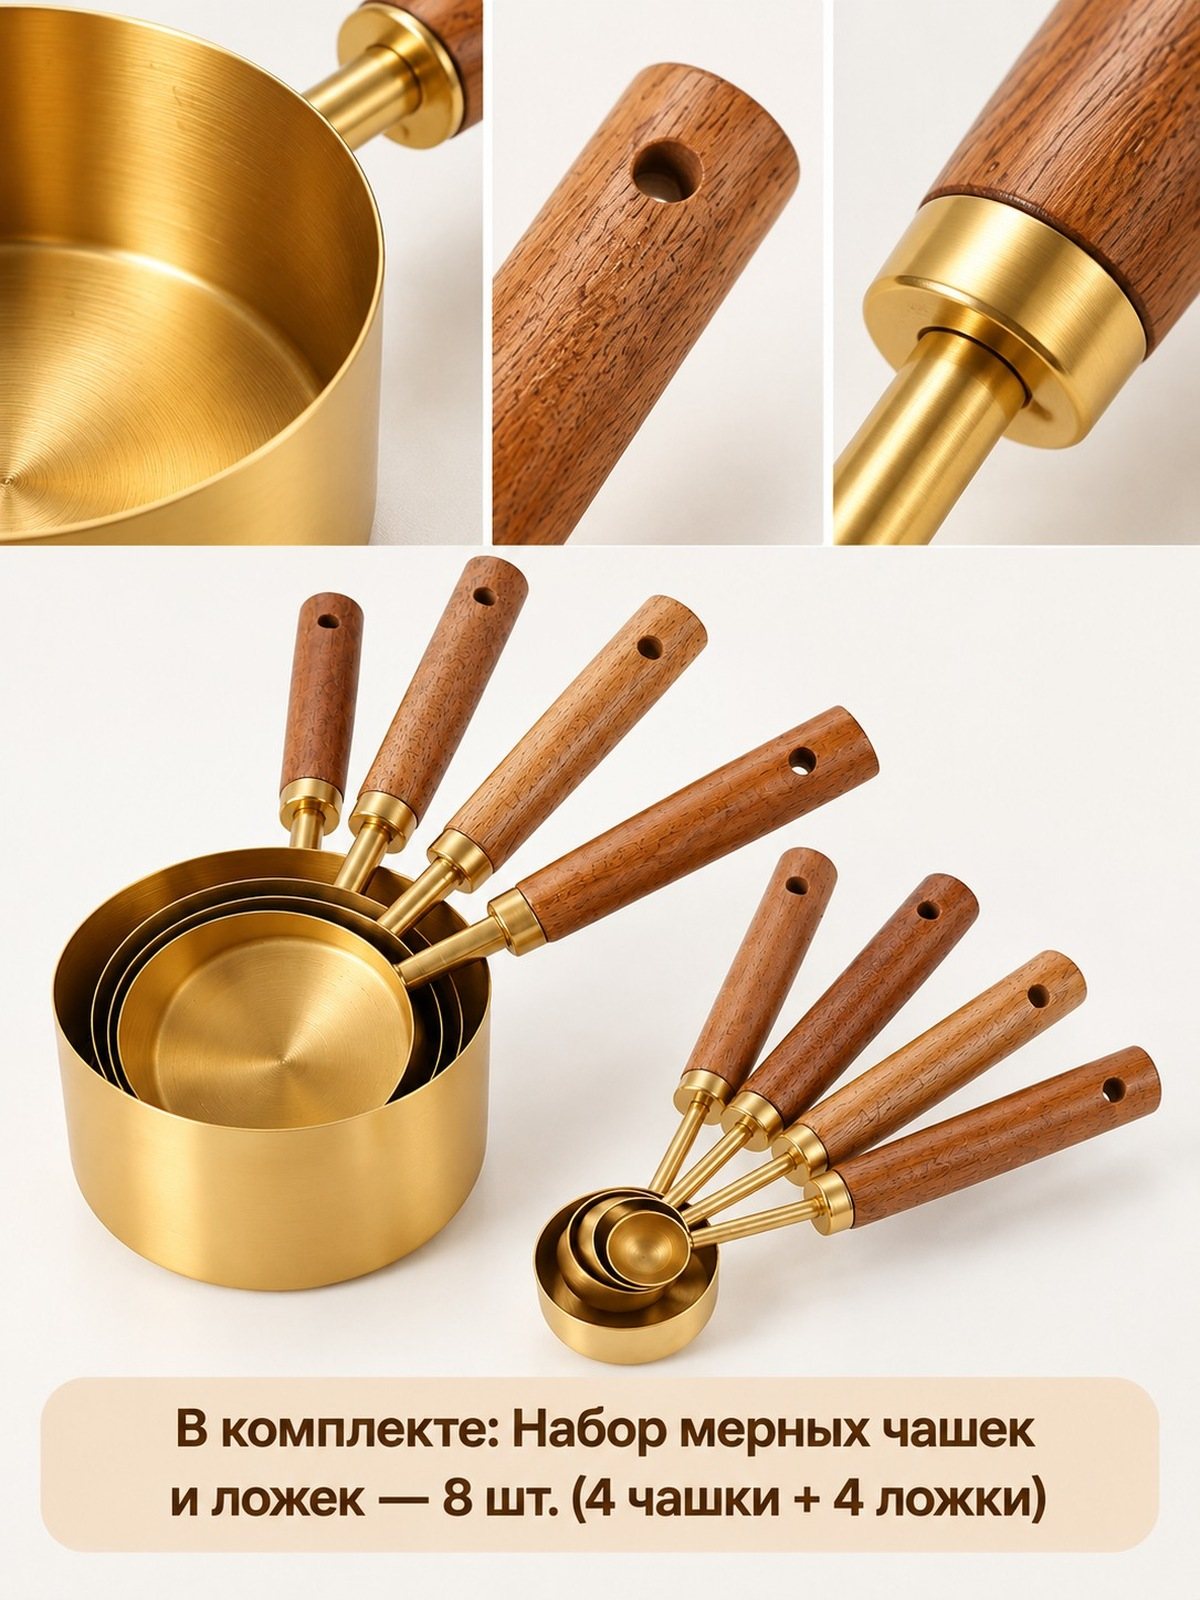
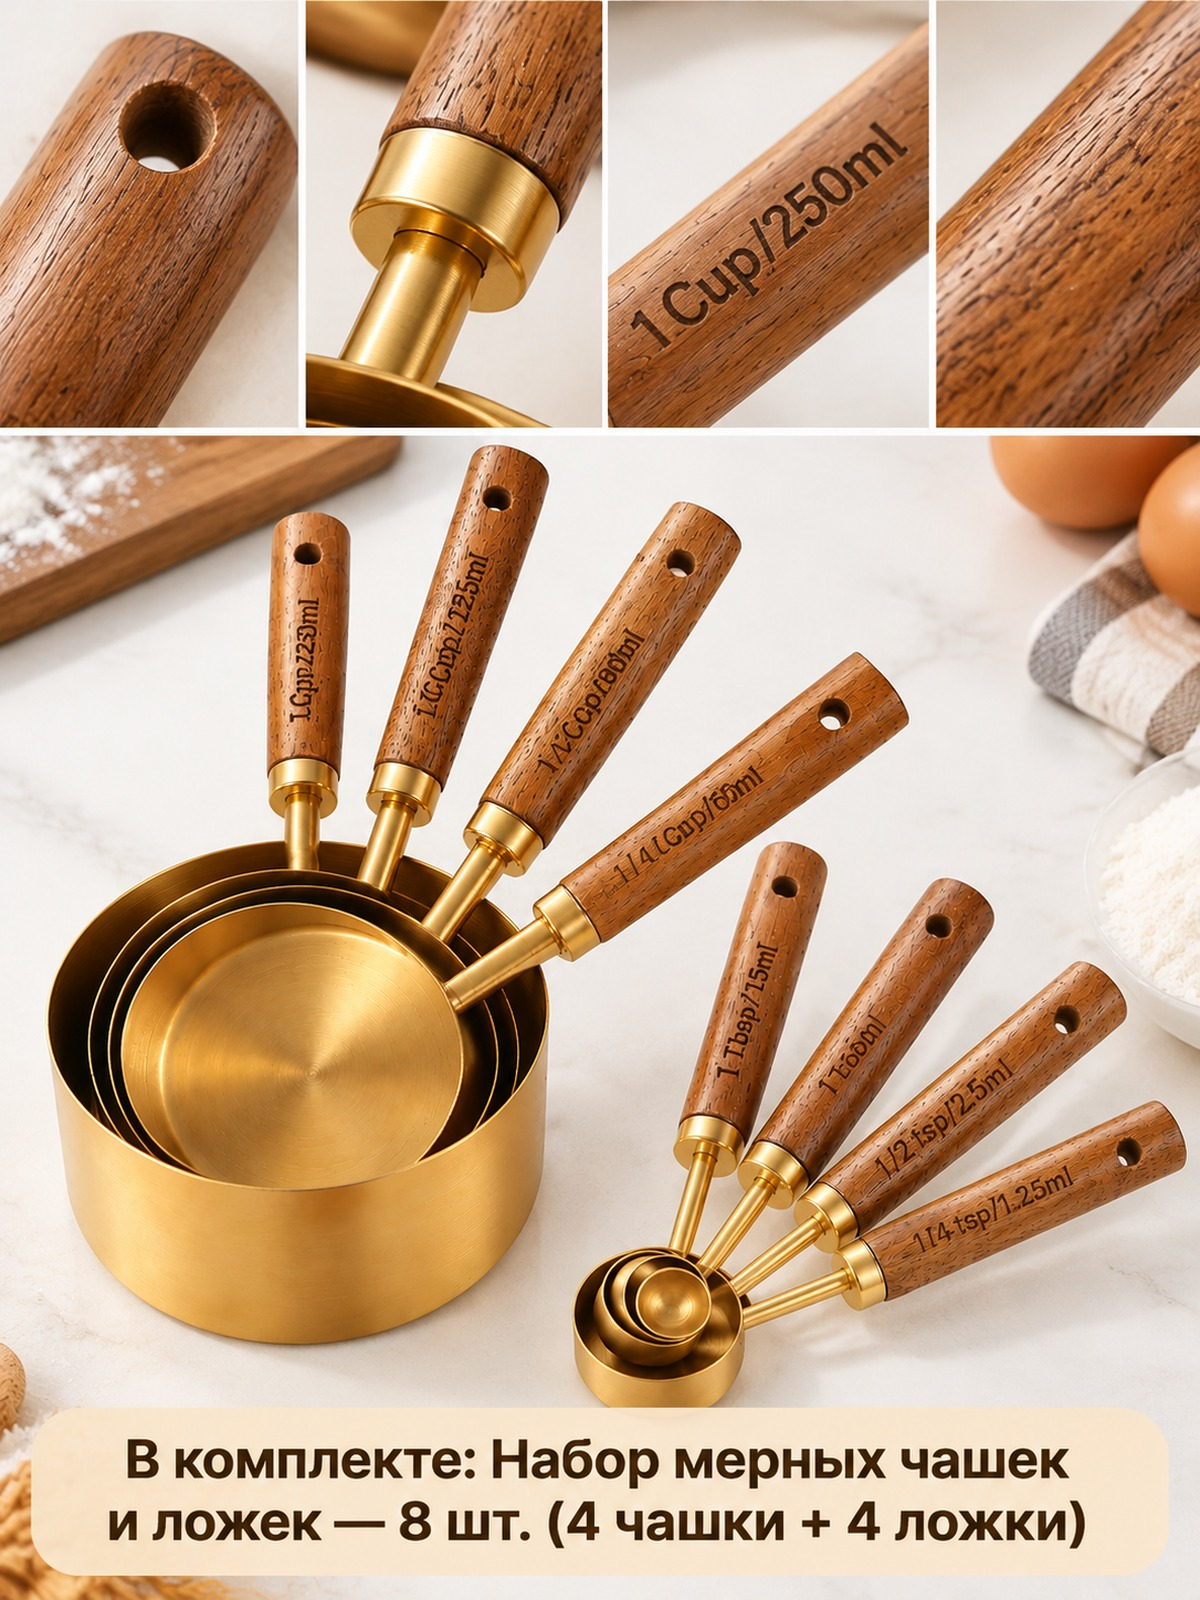
TG-R605 redo: laser capacity engravings on handles

diff --git a/TG-R605/MANIFEST.md b/TG-R605/MANIFEST.md
@@ -1,37 +1,27 @@
 # TG-R605 Ozon image pack — 木柄金色量勺量杯8件套
 
-更新：2026-10-31（Asia/Shanghai）· 六图已出  
+更新：2026-10-31（Asia/Shanghai）· 打回后重出（柄激光容量刻字）· 待终审  
 店：Тайген · 货号 TG-R605 · 选品 R6-05  
 状态：**待店群终审** · method=网页GPT
 
 ## 货源
 - 1688: https://detail.1688.com/offer/777159105592.html
-- 厂：阳江金海；锁定 **金色8件套** skuId 5484484639035；¥12 / MOQ≥2；件重尺 **435 g**
-- 外形：相思木圆柱柄（挂孔）+ 拉丝金不锈钢杯/勺头 + 金环颈；4 杯 + 4 勺
-- 容量：杯 250/125/80/60 ml；勺 15/5/2,5/1,25 ml
-- 材质：页属性不锈钢 + 标题相思木柄；包装 1 套 8 шт；无蛋糕铲
-
-## Ozon 对标（只学结构）
-- https://www.ozon.ru/product/mernye-lozhki-nabor-8-shtuk-2453235014/
-- 禁止抄品牌礼盒/赠铲/对标柄刻 240·120
+- 锁定：金色8件套 skuId 5484484639035；¥12；435 g
+- 外形：相思木柄（挂孔+激光容量刻字）+ 拉丝香槟金不锈钢头 + 金环颈；4 杯 + 4 勺
+- 柄刻：杯 1 Cup/250ml · 1/2 Cup/125ml · 1/3 Cup/80ml · 1/4 Cup/60ml；勺 1 Tbsp/15ml · 1 Tsp/5ml · 1/2 tsp/2.5ml · 1/4 tsp/1.25ml
+- 包装 8 шт；无赠铲
 
 ## 固定 6 张（1200×1600 JPG）method=网页GPT
-| 文件 | 作用 | method | notes / doubts |
-|---|---|---|---|
-| 01-main-white.jpg | 白底无字 | 网页GPT | 金色+相思木 8 件叠套；无字无铲 |
-| 02-angles.jpg | Вид со всех сторон | 网页GPT | 四角同锁款；无字 |
-| 03-points.jpg | 卖点 | 网页GPT | 8 шт / акация / нержавеющая сталь с золотым покрытием / мерные чашки и ложки |
-| 04-size.jpg | 尺寸+重量 | 网页GPT | 容量齐全 + 19,5/15 см + Вес 435 г |
-| 05-scene.jpg | 场景 | 网页GPT | 烘焙台；无品牌 |
-| 06-detail.jpg | 清单 | 网页GPT | В комплекте: Набор — 8 шт.（4 чашки + 4 ложки） |
+| 文件 | 作用 | notes |
+|---|---|---|
+| 01-main-white.jpg | 白底 | 柄刻齐全可读；香槟金；无字叠加 |
+| 02-angles.jpg | 多角度 | 同锁款柄刻 |
+| 03-points.jpg | 卖点 | 8 шт / акация / нержавеющая сталь с золотым покрытием / мерные чашки и ложки |
+| 04-size.jpg | 尺寸 | 容量+19,5/15 см + Вес 435 г |
+| 05-scene.jpg | 场景 | 烘焙；同柄刻产品 |
+| 06-detail.jpg | 清单 | 8 шт（4 чашки + 4 ложки）；无 лопатка |
 
-硬门禁：01/02 金色木柄 8 件外形与 1688 锁款一致（非玫瑰金）；容量/435 г/清单跟页；无赠铲；无中文叠加。  
-疑点：① 柄上无厂图激光容量刻字（文案在 04）；② 金属偏香槟金黄非玫瑰。
+硬门禁修复：打回原因「柄光秃」已补厂图激光容量刻字。  
+疑点：01 勺柄写 «1 Tsp»（大写 T），与部分厂图 «1 tsp» 大小写略异，语义同。
 
-公开链（ozon-img main）：
-- https://raw.githubusercontent.com/wanshi0001-art/ozon-img/main/TG-R605/01-main-white.jpg
-- https://raw.githubusercontent.com/wanshi0001-art/ozon-img/main/TG-R605/02-angles.jpg
-- https://raw.githubusercontent.com/wanshi0001-art/ozon-img/main/TG-R605/03-points.jpg
-- https://raw.githubusercontent.com/wanshi0001-art/ozon-img/main/TG-R605/04-size.jpg
-- https://raw.githubusercontent.com/wanshi0001-art/ozon-img/main/TG-R605/05-scene.jpg
-- https://raw.githubusercontent.com/wanshi0001-art/ozon-img/main/TG-R605/06-detail.jpg
+公开链：https://raw.githubusercontent.com/wanshi0001-art/ozon-img/main/TG-R605/
